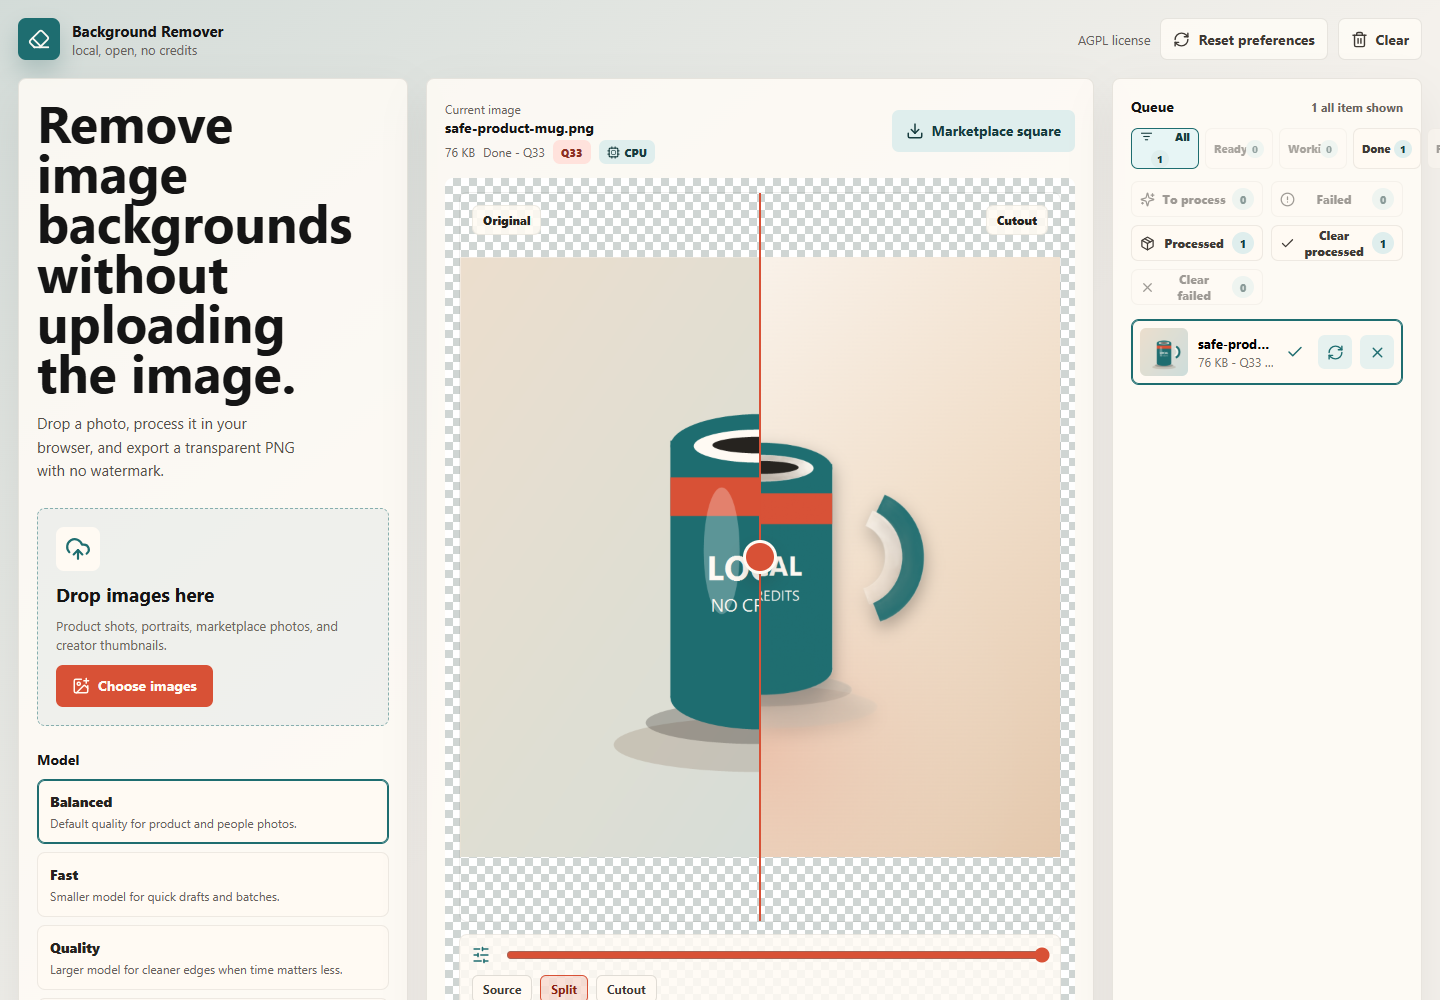
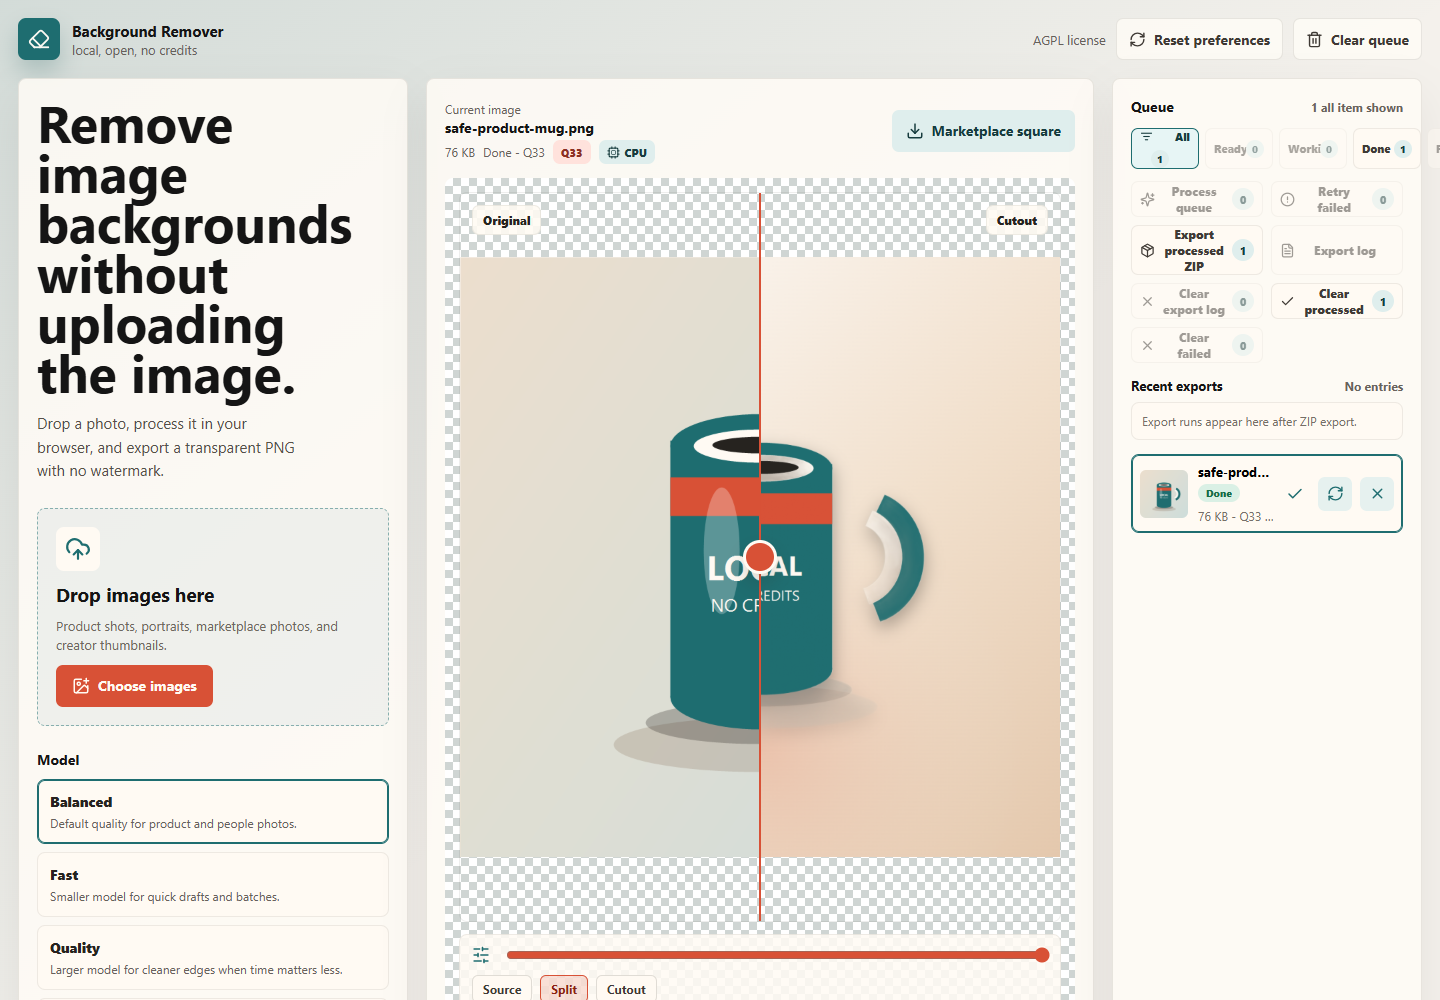
Add edge review zoom and backdrop controls

diff --git a/src/App.tsx b/src/App.tsx
@@ -11,6 +11,7 @@ import {
   FileText,
   Loader2,
   Lock,
+  Maximize2,
   Package,
   Palette,
   RefreshCw,
@@ -21,6 +22,8 @@ import {
   Trash2,
   X,
   Zap,
+  ZoomIn,
+  ZoomOut,
 } from "lucide-react";
 import { type CSSProperties, useEffect, useMemo, useRef, useState } from "react";
 import { Dropzone } from "./components/Dropzone";
@@ -52,6 +55,7 @@ import {
 import {
   QA_PREVIEW_MAX_DIMENSION,
   QA_PREVIEW_RENDER_DEBOUNCE_MS,
+  QA_PREVIEW_ZOOM,
   QA_QUERY_PARAM_KEY,
   QA_QUERY_PARAM_VALUE,
   QA_SETTINGS_STORAGE_KEY,
@@ -96,6 +100,13 @@ const modeLabels: Record<RemovalMode, { label: string; detail: string }> = {
     detail: "Export the alpha mask for advanced editing.",
   },
 };
+
+const previewBackgroundOptions: Array<{ id: PreviewBackground; label: string }> = [
+  { id: "checker", label: "Checker" },
+  { id: "white", label: "White" },
+  { id: "black", label: "Dark" },
+  { id: "brand", label: "Brand" },
+];
 
 const DEFAULT_UI_SETTINGS: Required<StoredUISettings> = {
   ...QA_UI_DEFAULTS,
@@ -520,6 +531,7 @@ function App() {
     persistedSettings.customBackground ?? DEFAULT_UI_SETTINGS.customBackground
   );
   const [comparePosition, setComparePosition] = useState(50);
+  const [previewZoom, setPreviewZoom] = useState(QA_PREVIEW_ZOOM.default);
   const [isZipping, setIsZipping] = useState(false);
   const [isExportingSelected, setIsExportingSelected] = useState(false);
   const [exportLog, setExportLog] = useState<ExportLogItem[]>(() => readExportLogFromStorage());
@@ -1013,6 +1025,8 @@ function App() {
     setShadowIntensity(DEFAULT_UI_SETTINGS.shadowIntensity);
     setShadowBlur(DEFAULT_UI_SETTINGS.shadowBlur);
     setShadowOffset(DEFAULT_UI_SETTINGS.shadowOffset);
+    setComparePosition(50);
+    setPreviewZoom(QA_PREVIEW_ZOOM.default);
   };
 
   return (
@@ -1343,7 +1357,12 @@ function App() {
                 <div className="comparison-shell">
                   <div
                     className="comparison-frame"
-                    style={{ "--split": `${comparePosition}%` } as CSSProperties}
+                    style={
+                      {
+                        "--split": `${comparePosition}%`,
+                        "--preview-zoom": String(previewZoom / 100),
+                      } as CSSProperties
+                    }
                   >
                     {selectedJob.status === "done" && selectedJob.outputUrl ? (
                       <>
@@ -1442,6 +1461,43 @@ function App() {
                       >
                         Cutout
                       </button>
+                    </span>
+                    <div className="review-zoom-controls" role="group" aria-label="Preview zoom controls">
+                      <ZoomOut size={16} />
+                      <input
+                        type="range"
+                        min={QA_PREVIEW_ZOOM.min}
+                        max={QA_PREVIEW_ZOOM.max}
+                        step={QA_PREVIEW_ZOOM.step}
+                        value={previewZoom}
+                        disabled={selectedJob.status !== "done"}
+                        onChange={(event) => setPreviewZoom(Number(event.target.value))}
+                        aria-label="Preview zoom"
+                      />
+                      <ZoomIn size={16} />
+                      <button
+                        className="comparison-quick-button"
+                        type="button"
+                        title="Fit preview"
+                        aria-label="Fit preview"
+                        disabled={selectedJob.status !== "done"}
+                        onClick={() => setPreviewZoom(QA_PREVIEW_ZOOM.default)}
+                      >
+                        <Maximize2 size={14} />
+                        Fit
+                      </button>
+                    </div>
+                    <span className="review-background-controls" role="group" aria-label="Preview background presets">
+                      {previewBackgroundOptions.map((option) => (
+                        <button
+                          className={`review-background-button ${option.id} ${background === option.id ? "active" : ""}`}
+                          key={option.id}
+                          type="button"
+                          title={`${option.label} preview background`}
+                          aria-label={`Use ${option.label.toLowerCase()} preview background`}
+                          onClick={() => setBackground(option.id)}
+                        />
+                      ))}
                     </span>
                   </div>
 

diff --git a/src/styles.css b/src/styles.css
@@ -655,6 +655,7 @@ a {
 }
 
 .comparison-frame {
+  --preview-zoom: 1;
   position: relative;
   display: grid;
   min-height: calc(100vh - 270px);
@@ -671,6 +672,9 @@ a {
   max-width: 720px;
   max-height: 68vh;
   object-fit: contain;
+  transform: scale(var(--preview-zoom));
+  transform-origin: center;
+  transition: transform 160ms ease;
 }
 
 .comparison-output,
@@ -779,10 +783,15 @@ a {
 .comparison-quick-controls {
   display: flex;
   grid-column: 1 / -1;
+  flex-wrap: wrap;
   gap: 8px;
 }
 
 .comparison-quick-button {
+  display: inline-flex;
+  align-items: center;
+  justify-content: center;
+  gap: 6px;
   border: 1px solid rgba(38, 35, 31, 0.14);
   border-radius: 6px;
   padding: 0 10px;
@@ -802,6 +811,72 @@ a {
 .comparison-quick-button:disabled {
   cursor: not-allowed;
   opacity: 0.46;
+}
+
+.review-zoom-controls {
+  display: grid;
+  grid-column: 1 / -1;
+  grid-template-columns: 18px minmax(120px, 1fr) 18px auto;
+  align-items: center;
+  gap: 8px;
+  color: #1e6d70;
+}
+
+.review-zoom-controls input {
+  width: 100%;
+}
+
+.review-background-controls {
+  display: flex;
+  grid-column: 1 / -1;
+  flex-wrap: wrap;
+  gap: 8px;
+}
+
+.review-background-button {
+  width: 30px;
+  height: 30px;
+  border: 1px solid rgba(38, 35, 31, 0.18);
+  border-radius: 6px;
+  cursor: pointer;
+  box-shadow: inset 0 0 0 2px rgba(255, 250, 243, 0.72);
+}
+
+.review-background-button.active {
+  border-color: #d85136;
+  box-shadow:
+    0 0 0 2px rgba(216, 81, 54, 0.18),
+    inset 0 0 0 2px rgba(255, 250, 243, 0.82);
+}
+
+.review-background-button.checker {
+  background-color: #fff;
+  background-image:
+    linear-gradient(45deg, #d9d9d9 25%, transparent 25%),
+    linear-gradient(-45deg, #d9d9d9 25%, transparent 25%),
+    linear-gradient(45deg, transparent 75%, #d9d9d9 75%),
+    linear-gradient(-45deg, transparent 75%, #d9d9d9 75%);
+  background-position:
+    0 0,
+    0 8px,
+    8px -8px,
+    -8px 0;
+  background-size: 16px 16px;
+}
+
+.review-background-button.white {
+  background: #fff;
+}
+
+.review-background-button.black {
+  background: #171717;
+}
+
+.review-background-button.brand {
+  background:
+    radial-gradient(circle at 20% 15%, rgba(216, 81, 54, 0.55), transparent 24%),
+    radial-gradient(circle at 80% 85%, rgba(30, 109, 112, 0.55), transparent 28%),
+    #f7eee2;
 }
 
 .progress-panel {

diff --git a/src/lib/qaContract.ts b/src/lib/qaContract.ts
@@ -4,6 +4,7 @@ type SliderValue = {
   min: number;
   max: number;
   default: number;
+  step?: number;
 };
 
 export interface QAContract {
@@ -34,6 +35,7 @@ export interface QAContract {
   preview: {
     maxDimension: number;
     renderDebounceMs: number;
+    zoom: SliderValue;
   };
 }
 
@@ -45,4 +47,5 @@ export const QA_SETTINGS_STORAGE_KEY = QA_CONTRACT.ui.settingsStorageKey;
 export const QA_UI_DEFAULTS = QA_CONTRACT.ui.defaults;
 export const QA_PREVIEW_MAX_DIMENSION = QA_CONTRACT.preview.maxDimension;
 export const QA_PREVIEW_RENDER_DEBOUNCE_MS = QA_CONTRACT.preview.renderDebounceMs;
+export const QA_PREVIEW_ZOOM = QA_CONTRACT.preview.zoom;
 export const QA_SHADOW_SLIDERS = QA_CONTRACT.ui.sliders;

diff --git a/README.md b/README.md
@@ -13,6 +13,7 @@ The demo above is a real processed output generated from the repo-local fixture 
 - Removes image backgrounds in the browser.
 - Keeps source images local; there is no upload step.
 - Exports transparent PNGs with no watermark.
+- Reviews cutout edges with source/split/cutout modes, preview zoom, and quick backdrop toggles.
 - Adds product-photo backgrounds, marketplace export presets, shadows, and ZIP export.
 - Exports completed batch items separately from pending or failed queue items.
 - Handles duplicate source filenames during ZIP export by appending `-2`, `-3`, etc. to output names so entries remain unique.
@@ -102,6 +103,7 @@ npm.cmd run qa:preview-export
 The command starts the local Vite app on `http://127.0.0.1:5175/` when one is not already running, uploads two fixture images, applies the marketplace export preset with a product-photo background and shadow, then verifies:
 
 - The live composed preview stays capped at `900x900` so slider changes do not repeatedly render full-size output.
+- Review controls update preview zoom, fit reset, and dark/checker backdrop state without affecting export quality.
 - The selected PNG export and ZIP exports remain full preset quality at `2000x2000`.
 - Queue controls are locked while batch processing is running.
 

diff --git a/ROADMAP.md b/ROADMAP.md
@@ -7,10 +7,11 @@ This roadmap favors local-first workflows that can replace credit-based backgrou
 - Keep CI, contributor docs, and security posture healthy.
 - Preserve the D-drive storage rule for local development and QA artifacts.
 - Keep batch processing easy to trust with clear queue state and export feedback.
+- Keep preview review controls practical for edge-quality checks before export.
 
 ## Next
 
-- Add better before/after comparison controls for reviewing edge quality.
+- Add finer preview inspection controls for very large images.
 - Add export preset documentation with examples for marketplace and creator workflows.
 - Add a richer public demo capture that does not use private or sensitive source images.
 

diff --git a/docs/QA.md b/docs/QA.md
@@ -25,6 +25,7 @@ Checks performed:
 - Runs background removal.
 - Applies the marketplace preset + warm sweep scene + shadow controls.
 - Verifies live preview compositing remains capped at `900x900`.
+- Verifies edge-review controls update preview zoom, reset zoom to fit, and switch to the dark preview backdrop.
 - Verifies selected export PNG is `2000x2000`.
 - Verifies batch-processing lock controls (topbar and queue tools) are disabled while processing.
 - Verifies ZIP export filename is `background-remover-marketplace-2000-warm-2-images.zip` (preset + scene + count).
